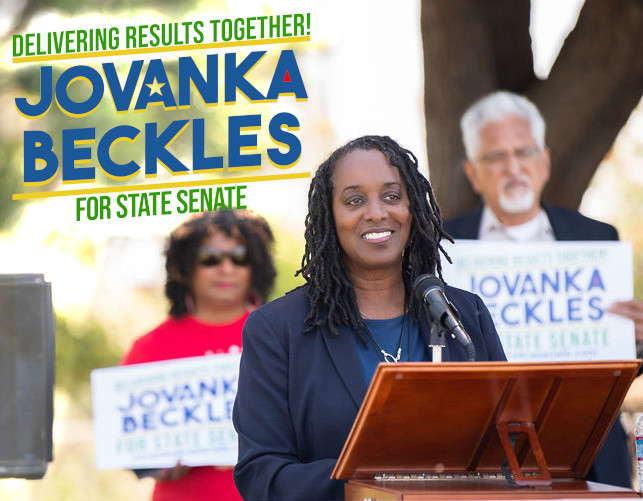
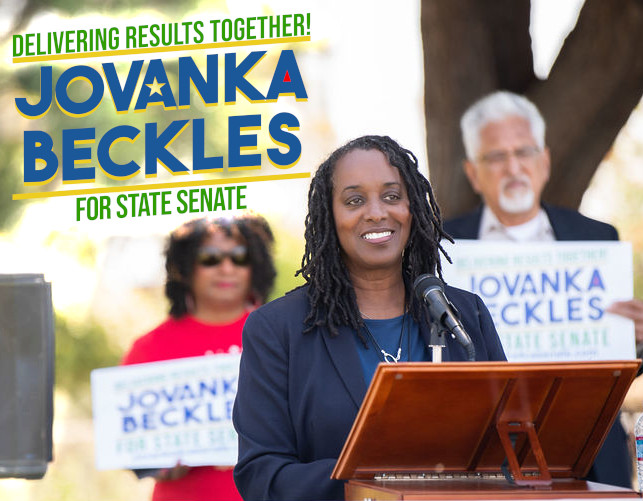
Fixing and cropping jpeg

Changed region(s): [[0.2488, 0.3892, 0.4044, 0.479], [0.0, 0.0599, 0.0311, 0.0898]]

diff --git a/src/static/libraries/layout/NavBar.css b/src/static/libraries/layout/NavBar.css
@@ -406,7 +406,7 @@ li .emoji {
 
 .hero-composite-splash {
     /*$background: url("/static/images/hero/jovanka_splash_photo_rasterized.jpg");*/
-    background: url("/static/images/images-landing/_HLA6968.jpg");
+    background: url("/static/images/images-landing/HLA6968_cropped.jpg");
     background-size: 100% auto;
     /* Aspect ratio: 1920x866 = 0.4510416 */
     height: calc(100vw * 0.45);
